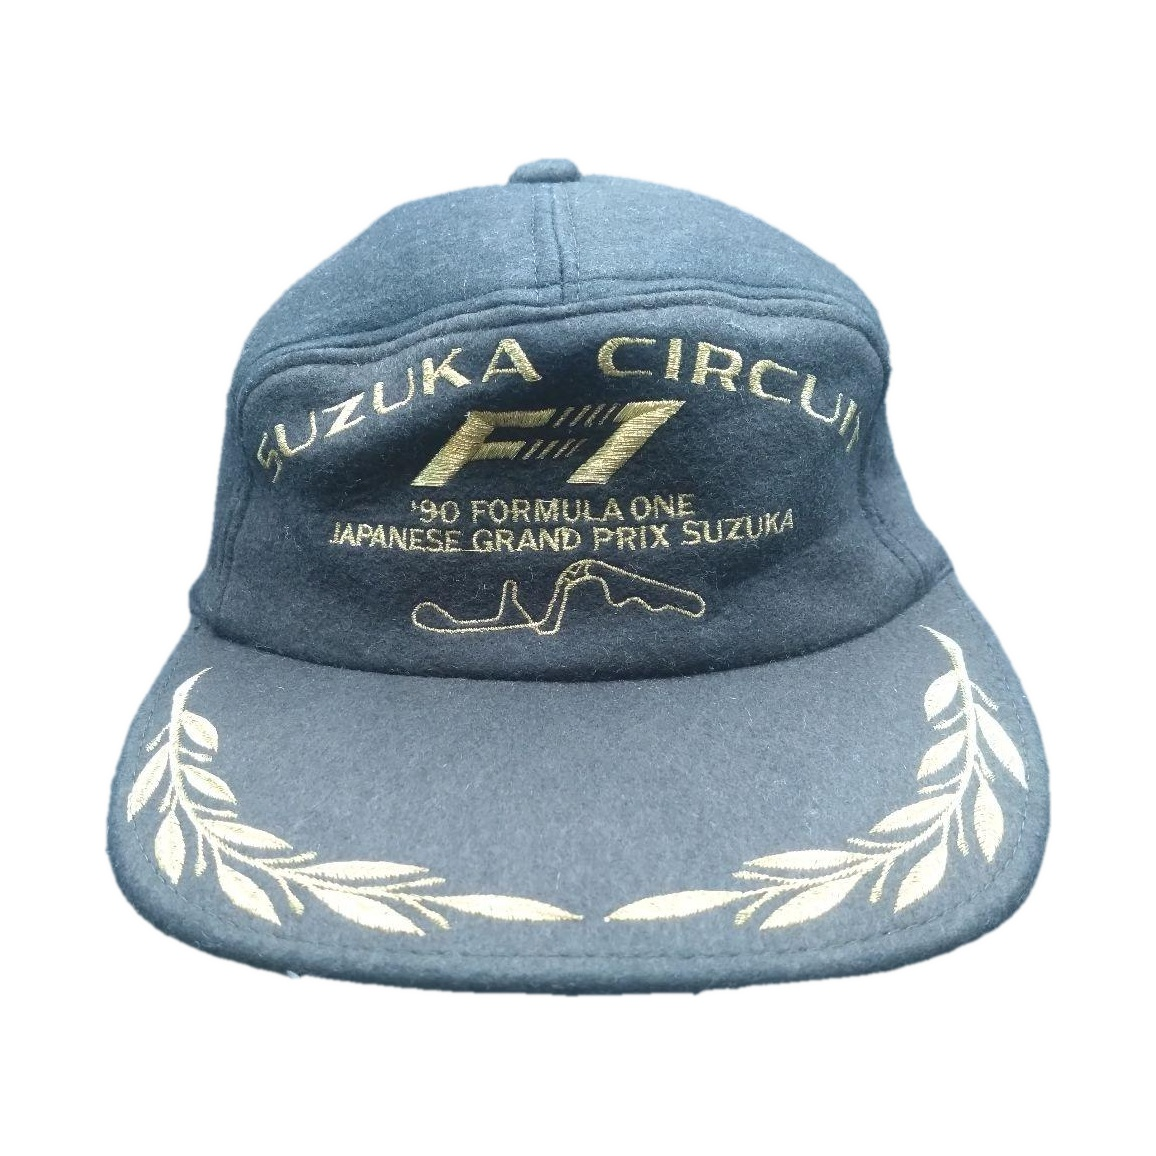
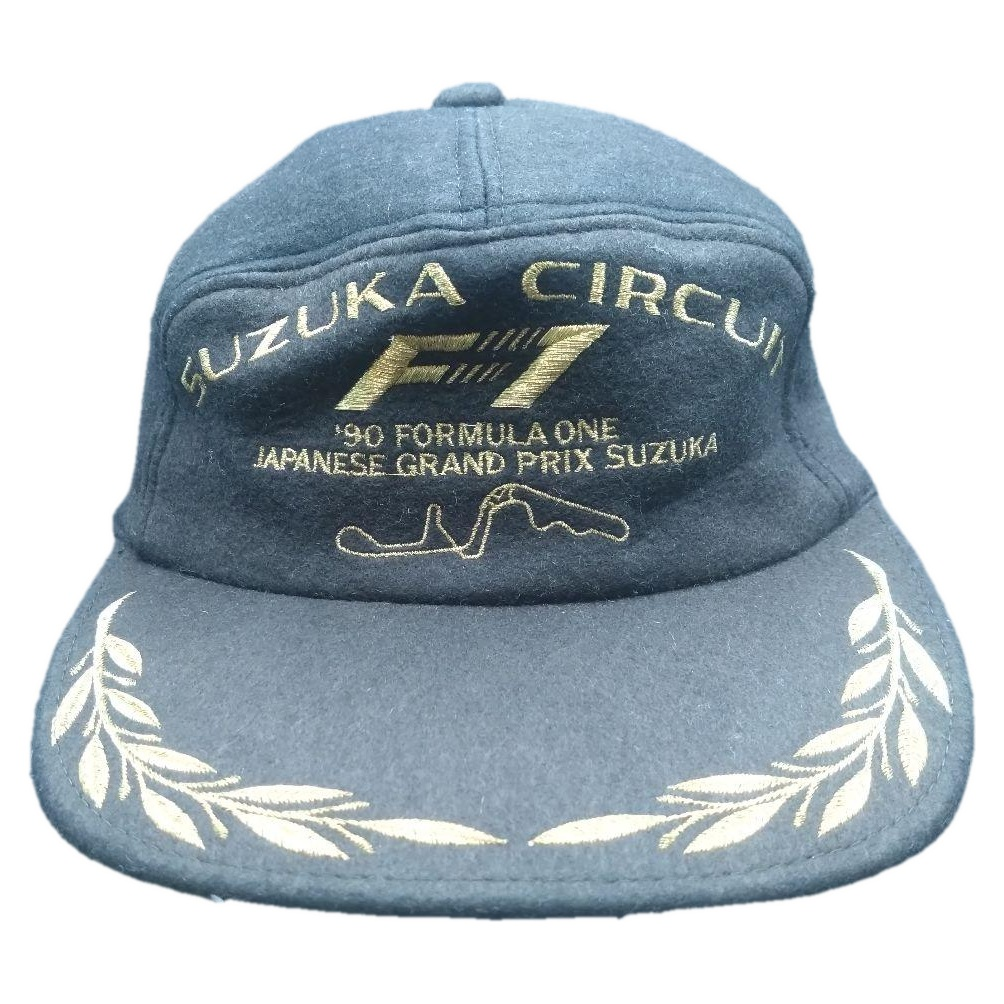
fix(exploracao): s6 - zoom maior na peca (padding do card 26->12 + recorte com margem 3%)

diff --git a/marca/conteudo/exploracao/direcao-c-eras/post.html b/marca/conteudo/exploracao/direcao-c-eras/post.html
@@ -143,7 +143,7 @@ h1,h2{ font-family:"Anton",sans-serif; font-weight:400; margin:0; text-transform
    peça do fundo. object-fit:contain = o boné inteiro aparece, sem corte. */
 .product-card{ flex:0 0 560px; height:560px; min-height:0; margin:24px 80px 6px;
   border-radius:12px; background:var(--white); overflow:hidden;
-  display:flex; align-items:center; justify-content:center; padding:26px;
+  display:flex; align-items:center; justify-content:center; padding:12px;
   box-shadow:0 18px 46px rgba(0,0,0,.45); }
 .product-card img{ max-width:100%; max-height:100%; object-fit:contain; display:block; }
 .piece-head{ display:flex; align-items:flex-start; gap:40px; }
